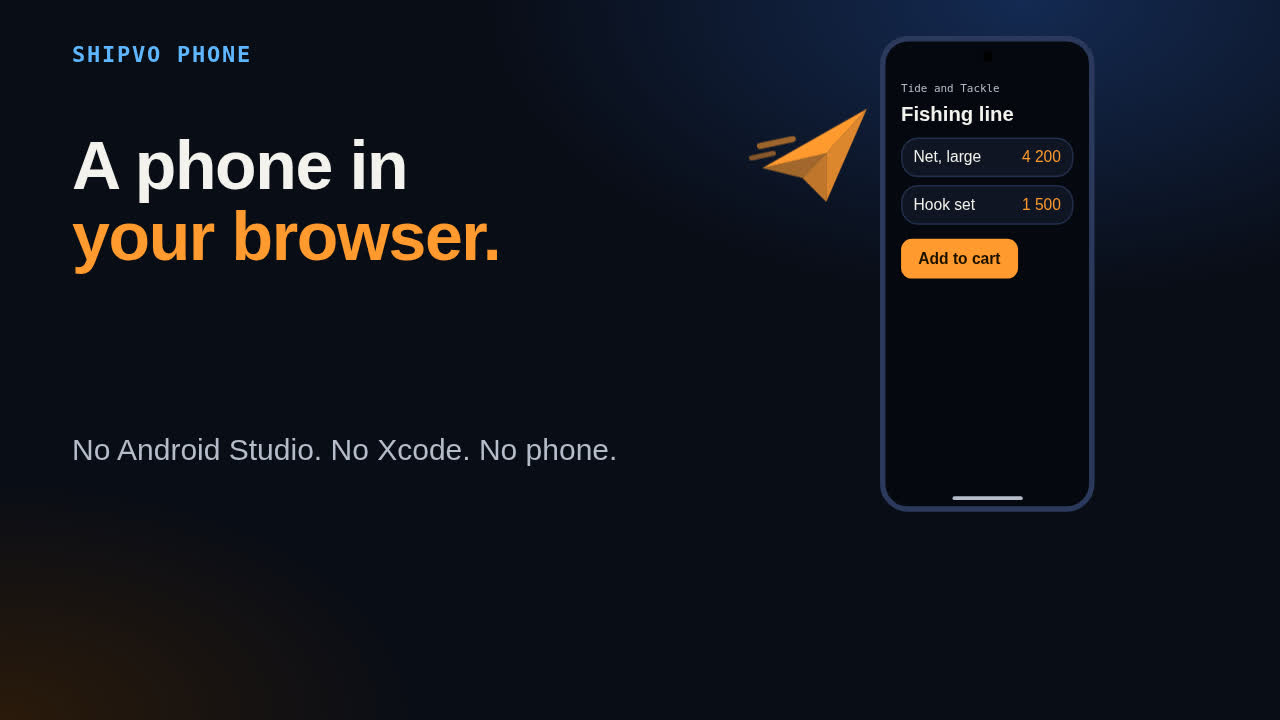
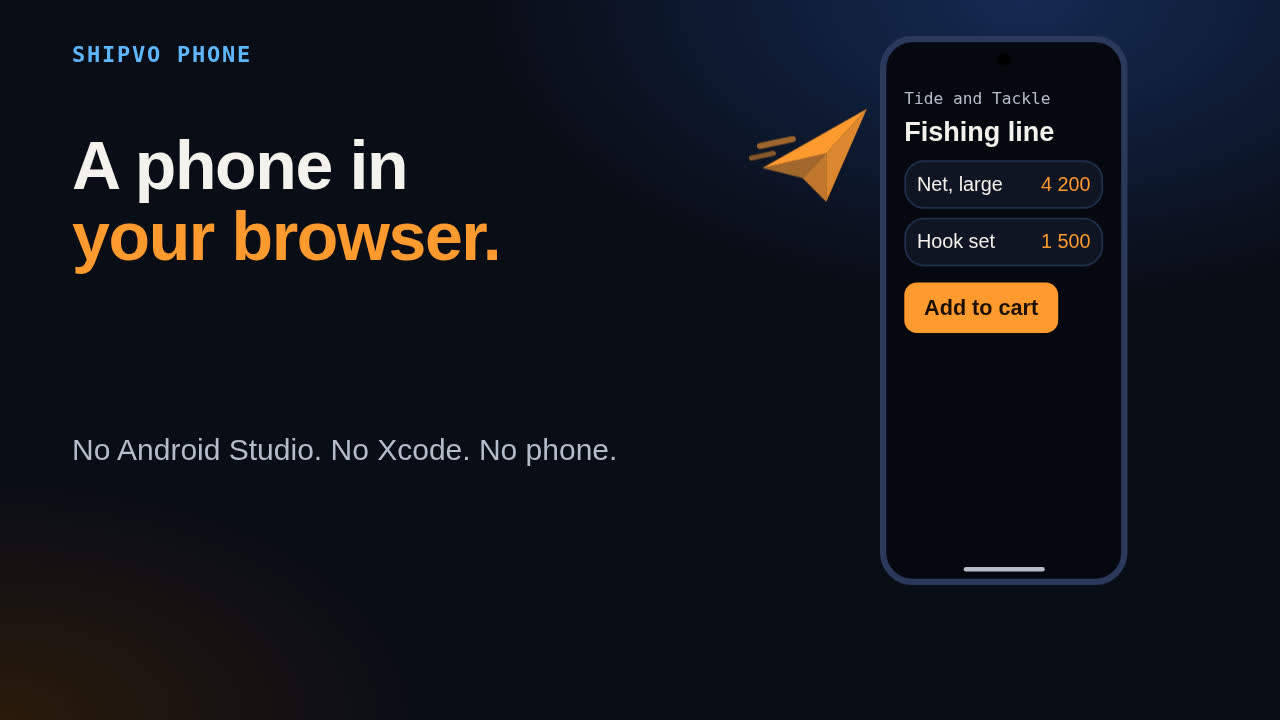
video: raise small text for phone width and re-render run-your-app video

Changed region(s): [[0.6875, 0.0306, 0.9062, 0.7944], [0.6875, 0.6722, 0.875, 0.825]]

diff --git a/docs/run.md b/docs/run.md
@@ -2,7 +2,7 @@
 
 For anyone who has made an app with `shipvo init` and wants to see it on a phone-shaped screen in seconds, without installing Android Studio, Xcode or Playwright. You will get a simulated Android or iPhone in a browser tab. Your AI assistant can drive the same phone while you watch.
 
-<video controls preload="metadata" playsinline tabindex="0" data-title="See your app on a phone in your browser with shipvo run" data-length="1 min 33 s" poster="/videos/run-your-app-on-a-phone.jpg" src="/media/videos/run-your-app-on-a-phone-807378b0.mp4"><track kind="captions" src="/videos/run-your-app-on-a-phone.vtt" srclang="en" label="English">Your browser cannot play this video. Read the steps below.</video>
+<video controls preload="metadata" playsinline tabindex="0" data-title="See your app on a phone in your browser with shipvo run" data-length="1 min 33 s" poster="/videos/run-your-app-on-a-phone.jpg" src="/media/videos/run-your-app-on-a-phone-e56797e1.mp4"><track kind="captions" src="/videos/run-your-app-on-a-phone.vtt" srclang="en" label="English">Your browser cannot play this video. Read the steps below.</video>
 
 <details class="credits"><summary>ⓘ Copyright credits</summary>Music: "Princess of my heart" by Zero-project (<a href="https://www.jamendo.com">Jamendo</a>, <a href="https://creativecommons.org/licenses/by/3.0/">CC BY 3.0</a>). Source: <a href="https://www.jamendo.com/track/633200">https://www.jamendo.com/track/633200</a></details>
 

diff --git a/docs/videos.md b/docs/videos.md
@@ -6,7 +6,7 @@ Short videos for people who are new to Shipvo. Each one has captions and a writt
 
 ### See your app on a phone in your browser with shipvo run
 
-<video controls preload="metadata" playsinline tabindex="0" data-title="See your app on a phone in your browser with shipvo run" data-length="1 min 33 s" poster="/videos/run-your-app-on-a-phone.jpg" src="/media/videos/run-your-app-on-a-phone-807378b0.mp4"><track kind="captions" src="/videos/run-your-app-on-a-phone.vtt" srclang="en" label="English">Your browser cannot play this video. Read the transcript below.</video>
+<video controls preload="metadata" playsinline tabindex="0" data-title="See your app on a phone in your browser with shipvo run" data-length="1 min 33 s" poster="/videos/run-your-app-on-a-phone.jpg" src="/media/videos/run-your-app-on-a-phone-e56797e1.mp4"><track kind="captions" src="/videos/run-your-app-on-a-phone.vtt" srclang="en" label="English">Your browser cannot play this video. Read the transcript below.</video>
 
 1 minute 33 seconds. One command, `npx shipvo run android`, opens a simulated phone in your browser with no account and no Android Studio or Xcode. It covers the iPhone look, the dark frame, how your AI assistant drives the same phone with `open_app`, and the `--port` and `--native` options. It follows [Run your app on a phone in your browser](run.md).
 
